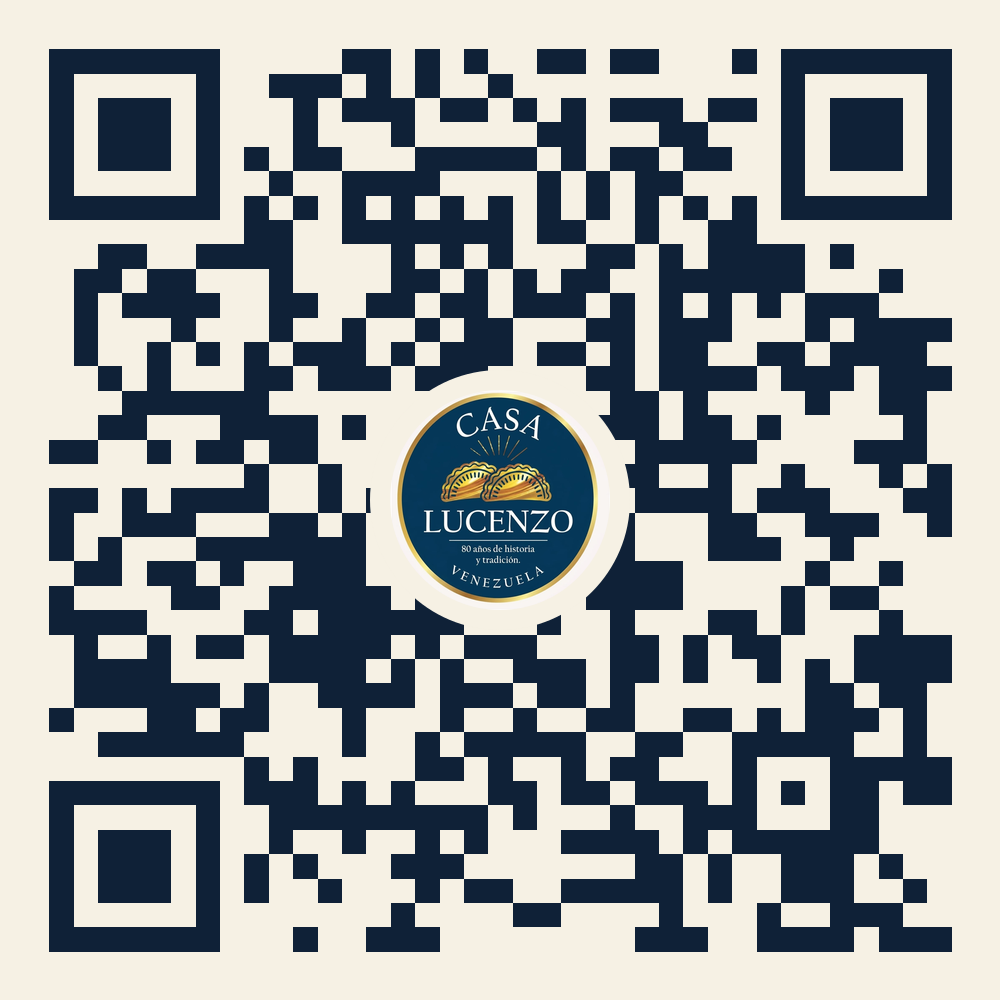
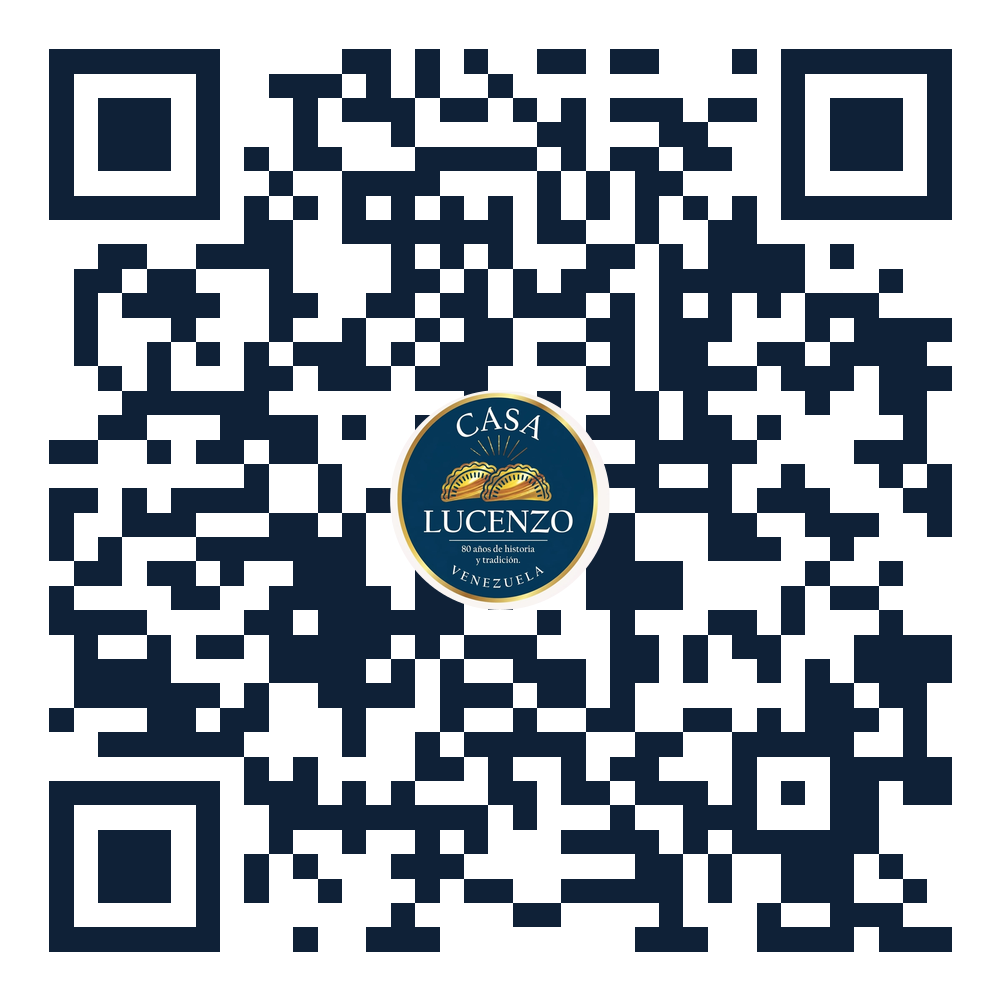
fix: QR con fondo transparente para que combine con la tarjeta
El PNG traía su propio relleno crema opaco (#f6f1e4) igual al de la
tarjeta en CSS, pero al lado se notaban como dos cremas distintos --
se reportó que el fondo de la tarjeta salía blanco y el del QR se
veía más tostado. En vez de perseguir el valor exacto, se elimina la
ambigüedad: los módulos claros del QR y el aro detrás del logo ahora
son transparentes, así el único crema visible es el de la tarjeta
(qr-mesa.html) por detrás. Sigue decodificando bien (probado incluso
leyendo el PNG crudo sin componer la transparencia, el peor caso).

Claude-Session: https://claude.ai/code/session_01KtLxfDcmvZbFU8uST3gMcy

diff --git a/scripts/generate-qr.js b/scripts/generate-qr.js
@@ -23,11 +23,13 @@ async function main() {
         errorCorrectionLevel: 'H',
         width: SIZE,
         margin: 2,
-        color: { dark: '#0f2137', light: '#f6f1e4' }
+        // light module = transparente (no '#f6f1e4' opaco): así el fondo crema
+        // de la tarjeta (qr-mesa.html) se ve a través del QR sin depender de
+        // que dos renders del mismo crema (CSS vs. este PNG) coincidan a ojo.
+        color: { dark: '#0f2137', light: '#f6f1e400' }
     });
 
     const logoSize = Math.round(SIZE * LOGO_RATIO);
-    const padSize = Math.round(logoSize * 1.18); // aro crema detrás del logo
 
     const circleMask = Buffer.from(
         `<svg width="${logoSize}" height="${logoSize}"><circle cx="${logoSize / 2}" cy="${logoSize / 2}" r="${logoSize / 2}" fill="#fff"/></svg>`
@@ -39,16 +41,16 @@ async function main() {
         .png()
         .toBuffer();
 
-    const padCircleSvg = Buffer.from(
-        `<svg width="${padSize}" height="${padSize}"><circle cx="${padSize / 2}" cy="${padSize / 2}" r="${padSize / 2}" fill="#f6f1e4"/></svg>`
-    );
-
+    // Nada de relleno propio detrás del logo: todo lo que no es un módulo
+    // oscuro del QR o el logo queda transparente, así el único crema que se
+    // ve es el fondo de la tarjeta/página (CSS) por detrás -- sin esto, el
+    // crema "propio" del PNG y el crema de la tarjeta podían no coincidir
+    // a ojo (perfil de color / compresión distintos) y se notaba un borde.
     await sharp({
         create: { width: SIZE, height: SIZE, channels: 4, background: { r: 0, g: 0, b: 0, alpha: 0 } }
     })
         .composite([
             { input: qrBuffer, top: 0, left: 0 },
-            { input: padCircleSvg, top: Math.round((SIZE - padSize) / 2), left: Math.round((SIZE - padSize) / 2) },
             { input: logo, top: Math.round((SIZE - logoSize) / 2), left: Math.round((SIZE - logoSize) / 2) }
         ])
         .png()
